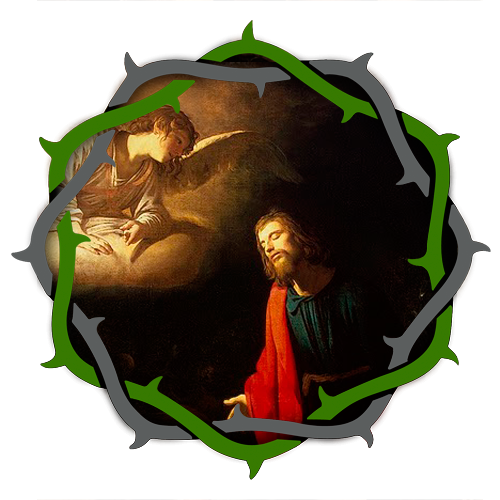
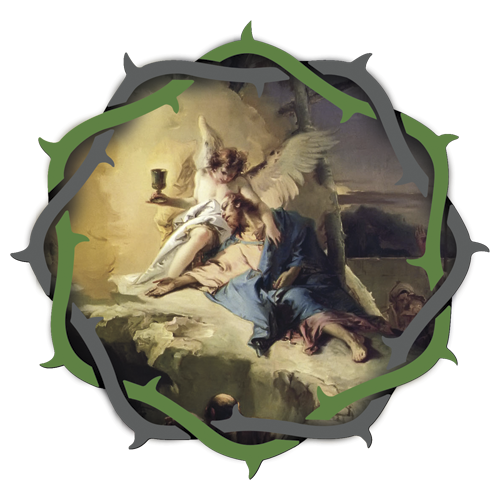
Updated 21:30 image and hourly javascript calculation.

diff --git a/hourly-passion-reflection-calculation.js b/hourly-passion-reflection-calculation.js
@@ -38,19 +38,14 @@ Date.today().set({ hour: 22, minute: 30 }),
 Date.today().set({ hour: 23, minute: 0 }),
 Date.today().set({ hour: 23, minute: 30 })];
 
-
-document.write("<br>prayerHours.length(): "+prayerHoursAscending.length);
-document.write("<br>");
-document.write(today);
-document.write("<br>");
-
-for(var i=0; i<prayerHoursAscending.length; i++) {
+var hourlyPrayerToDisplay;
+for(var i=0; i<prayerHoursAscending .length; i++) {
 	
 	if(Date.compare(today, prayerHoursAscending[i]) < 0 ) {
-		document.write("<br>prayer time to display: "+prayerHoursAscending[i-1]);
-		document.write("<br>prayer time to display: "+prayerHoursAscending[i-1].toString("HH-mm"));
+		hourlyPrayerToDisplay = 'passionOfJesusHourlyPrayer-'+prayerHoursAscending[i-1].toString("HH-mm")+'.html';
 		break;
 	}
-	
 }
+
+document.getElementById('hourlyPrayersIframe').src = "http://www.eternallifesaver.com/wp-content/uploads/2013/03/" + hourlyPrayerToDisplay;
 

diff --git a/hourlyPassionReflection.html b/hourlyPassionReflection.html
@@ -4,11 +4,17 @@
 	<title>Hourly Prayer</title>
 	
 </head>
-<body>
+<body bgcolor="red">
 <!-- http://www.datejs.com/ -->
 <script type="text/javascript" src="date-en-US.js"></script>
+  
+<div id="iFramePrayers">
+<iframe id="hourlyPrayersIframe" height="600" width="620" frameBorder="0" scrolling="no" bgcolor="blue"></iframe>
+
 <script type="text/javascript" src="hourly-passion-reflection-calculation.js">
 </script>
-  </body>
-  </html>
+
+</div>
+</body>
+</html>
  
